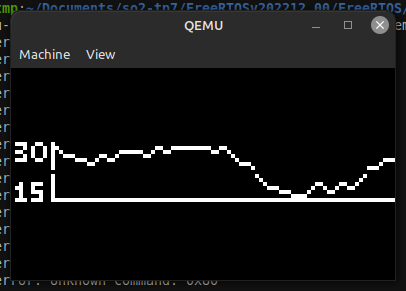
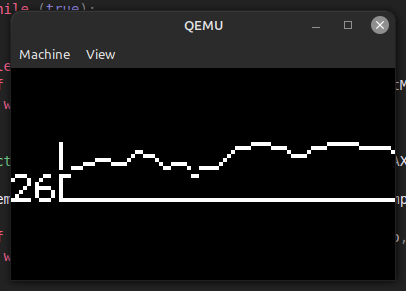
mejoras

diff --git a/FreeRTOSv202212.00/FreeRTOS/Demo/CORTEX_LM3S811_GCC/main.c b/FreeRTOSv202212.00/FreeRTOS/Demo/CORTEX_LM3S811_GCC/main.c
@@ -28,12 +28,15 @@ void configurarTimer(void);
 void Timer0IntHandler(void);
 void imprimirEstadisticas(void);
 void enviarCadenaUART0(const char *);
+void itoa(int, char[]);
 void actualizarArregloCircular(int[], int, int);
 int numeroAleatorio(void);
 int calcularPromedio(int[], int, int);
 int convertirCadenaAEntero(char *);
 unsigned long obtenerValor(void);
 char* obtenerCaracterEquivalente(int);
+char *reverse(char *);
+char* convertirTemperaturaString(int);
 char* utoa(unsigned, char *, int);
 
 /* Colas */
@@ -151,12 +154,16 @@ static void vDibujar(void *pvParameters) {
       while (true);
     }
 
+    char aux[2] = {};
+
     actualizarArregloCircular(arregloPromedio, _COLS_DISPLAY_, lectura);
     OSRAMClear();
     dibujarEjes();
 
     for (int i = 0; i < _COLS_DISPLAY_; i++) {
-      OSRAMImageDraw(obtenerCaracterEquivalente(arregloPromedio[i]), (i + 11), (arregloPromedio[i] > 21 ? 0 : 1), 1, 1);
+      itoa(arregloPromedio[i], aux);
+      OSRAMStringDraw(aux, 0, 1);
+      OSRAMImageDraw(obtenerCaracterEquivalente(arregloPromedio[i]), (i + 13), (arregloPromedio[i] > 21 ? 0 : 1), 1, 1);
     }
 
     if (uxTaskGetStackHighWaterMark(NULL) < 1) {
@@ -220,20 +227,12 @@ void vUART_ISR(void) {
 }
 
 void dibujarEjes(void) {
-  // 30 superior
-  OSRAMImageDraw("", 1, 0, 3, 1);  // 3
-  OSRAMImageDraw("", 5, 0, 4, 1); // 0
-
-  // 15 inferior
-  OSRAMImageDraw("H|@", 1, 1, 3, 1);  // 1
-  OSRAMImageDraw("\\Tt", 5, 1, 3, 1); // 5
-
   // Eje Y
-  OSRAMImageDraw("", 10, 0, 1, 1);
-  OSRAMImageDraw("", 10, 1, 1, 1);
+  OSRAMImageDraw("", 12, 0, 1, 1);
+  OSRAMImageDraw("", 12, 1, 1, 1);
 
   // Eje X
-  for (int i = 11; i < _COLS_DISPLAY_ + 11; i++) {
+  for (int i = 13; i < _COLS_DISPLAY_ + 11; i++) {
     OSRAMImageDraw("@", i, 1, 1, 1);
   }
 }
@@ -308,6 +307,31 @@ void enviarCadenaUART0(const char *cadena) {
   }
 
   UARTCharPut(UART0_BASE, '\0');
+}
+
+void itoa(int n, char s[]) {
+    int i;
+    int sign;
+
+    if ((sign = n) < 0) {
+      n = -n;
+    }
+
+    i = 0;
+
+    do {
+      s[i++] = n % 10 + '0';
+    } while ((n /= 10) > 0);
+
+    if (sign < 0) {
+      s[i++] = '-';
+    }
+
+    reverse(s);
+
+    s[i] = '\0';
+
+    return;
 }
 
 void actualizarArregloCircular(int arreglo[], int tamArreglo, int nuevoValor) {
@@ -406,6 +430,31 @@ char* obtenerCaracterEquivalente(int valor) {
   if (valor >= 29) {
     return "";
   }
+}
+
+char *reverse(char *str) {
+  char tmp;
+  char *src;
+  char *dst;
+
+  size_t len;
+
+  if (str != NULL) {
+    len = strlen (str);
+
+    if (len > 1) {
+      src = str;
+      dst = src + len - 1;
+
+      while (src < dst) {
+        tmp = *src;
+        *src++ = *dst;
+        *dst-- = tmp;
+      }
+    }
+  }
+
+  return str;
 }
 
 char *utoa(unsigned valor, char *dest, int base) {

diff --git a/README.md b/README.md
@@ -36,6 +36,8 @@ Primero se dibujan los ejes y los rangos a abarcar, luego, se grafica en el eje 
 ### 🟢 Recopilación de estadísticas
 Para esta tarea, al no poder utilizar varias ed las funciones de librerías estándares (por ejemplo, funciones como `utoa`), se optó por tomar la implementación de la función [vTaskGetRunTimeStats](https://www.freertos.org/a00021.html#vTaskGetRunTimeStats) y adaptarla para utilizar funciones equivalentes que no estén en esas librerías.\
 Estas estadísticas se recopilan en una estructura que almacena datos útiles sobre las tareas, como el porcentaje de CPU utilizado y la cantidad de stack libre que le queda. Estas estadísticas son enviadas por `serial0`.
+### 🟢 Utilización de UART0
+La recepción de datos por `UART0` se hizo mediante interrupciones. Se habilitó el handler `vUART_ISR` en el vector de interrupciones y se lo implementó en `main.c`.
 ## Running
 Para ejecutar el programa, se utiliza [QEMU](https://www.qemu.org/) como herramienta de emulación de hardware mediante el comando:\
 `qemu-system-arm -machine lm3s811evb -kernel gcc/RTOSDemo.axf`\
@@ -52,3 +54,5 @@ Finalmente, para terminar de linkear GDB con el programa y poder debuggear, debe
 *Recopilación de estadísticas de ejecución de las tareas*
 ## References
 - [Generador de números aleatorios](https://github.com/istarc/freertos/blob/master/FreeRTOS/Demo/CORTEX_A5_SAMA5D3x_Xplained_IAR/AtmelFiles/libboard_sama5d3x-ek/source/rand.c)
+- [itoa](https://gist.github.com/aaronryank/808d667c472af123e6ca08d0aacfcebc)
+- [utoa](https://github.com/bminor/newlib/blob/master/newlib/libc/stdlib/utoa.c)
